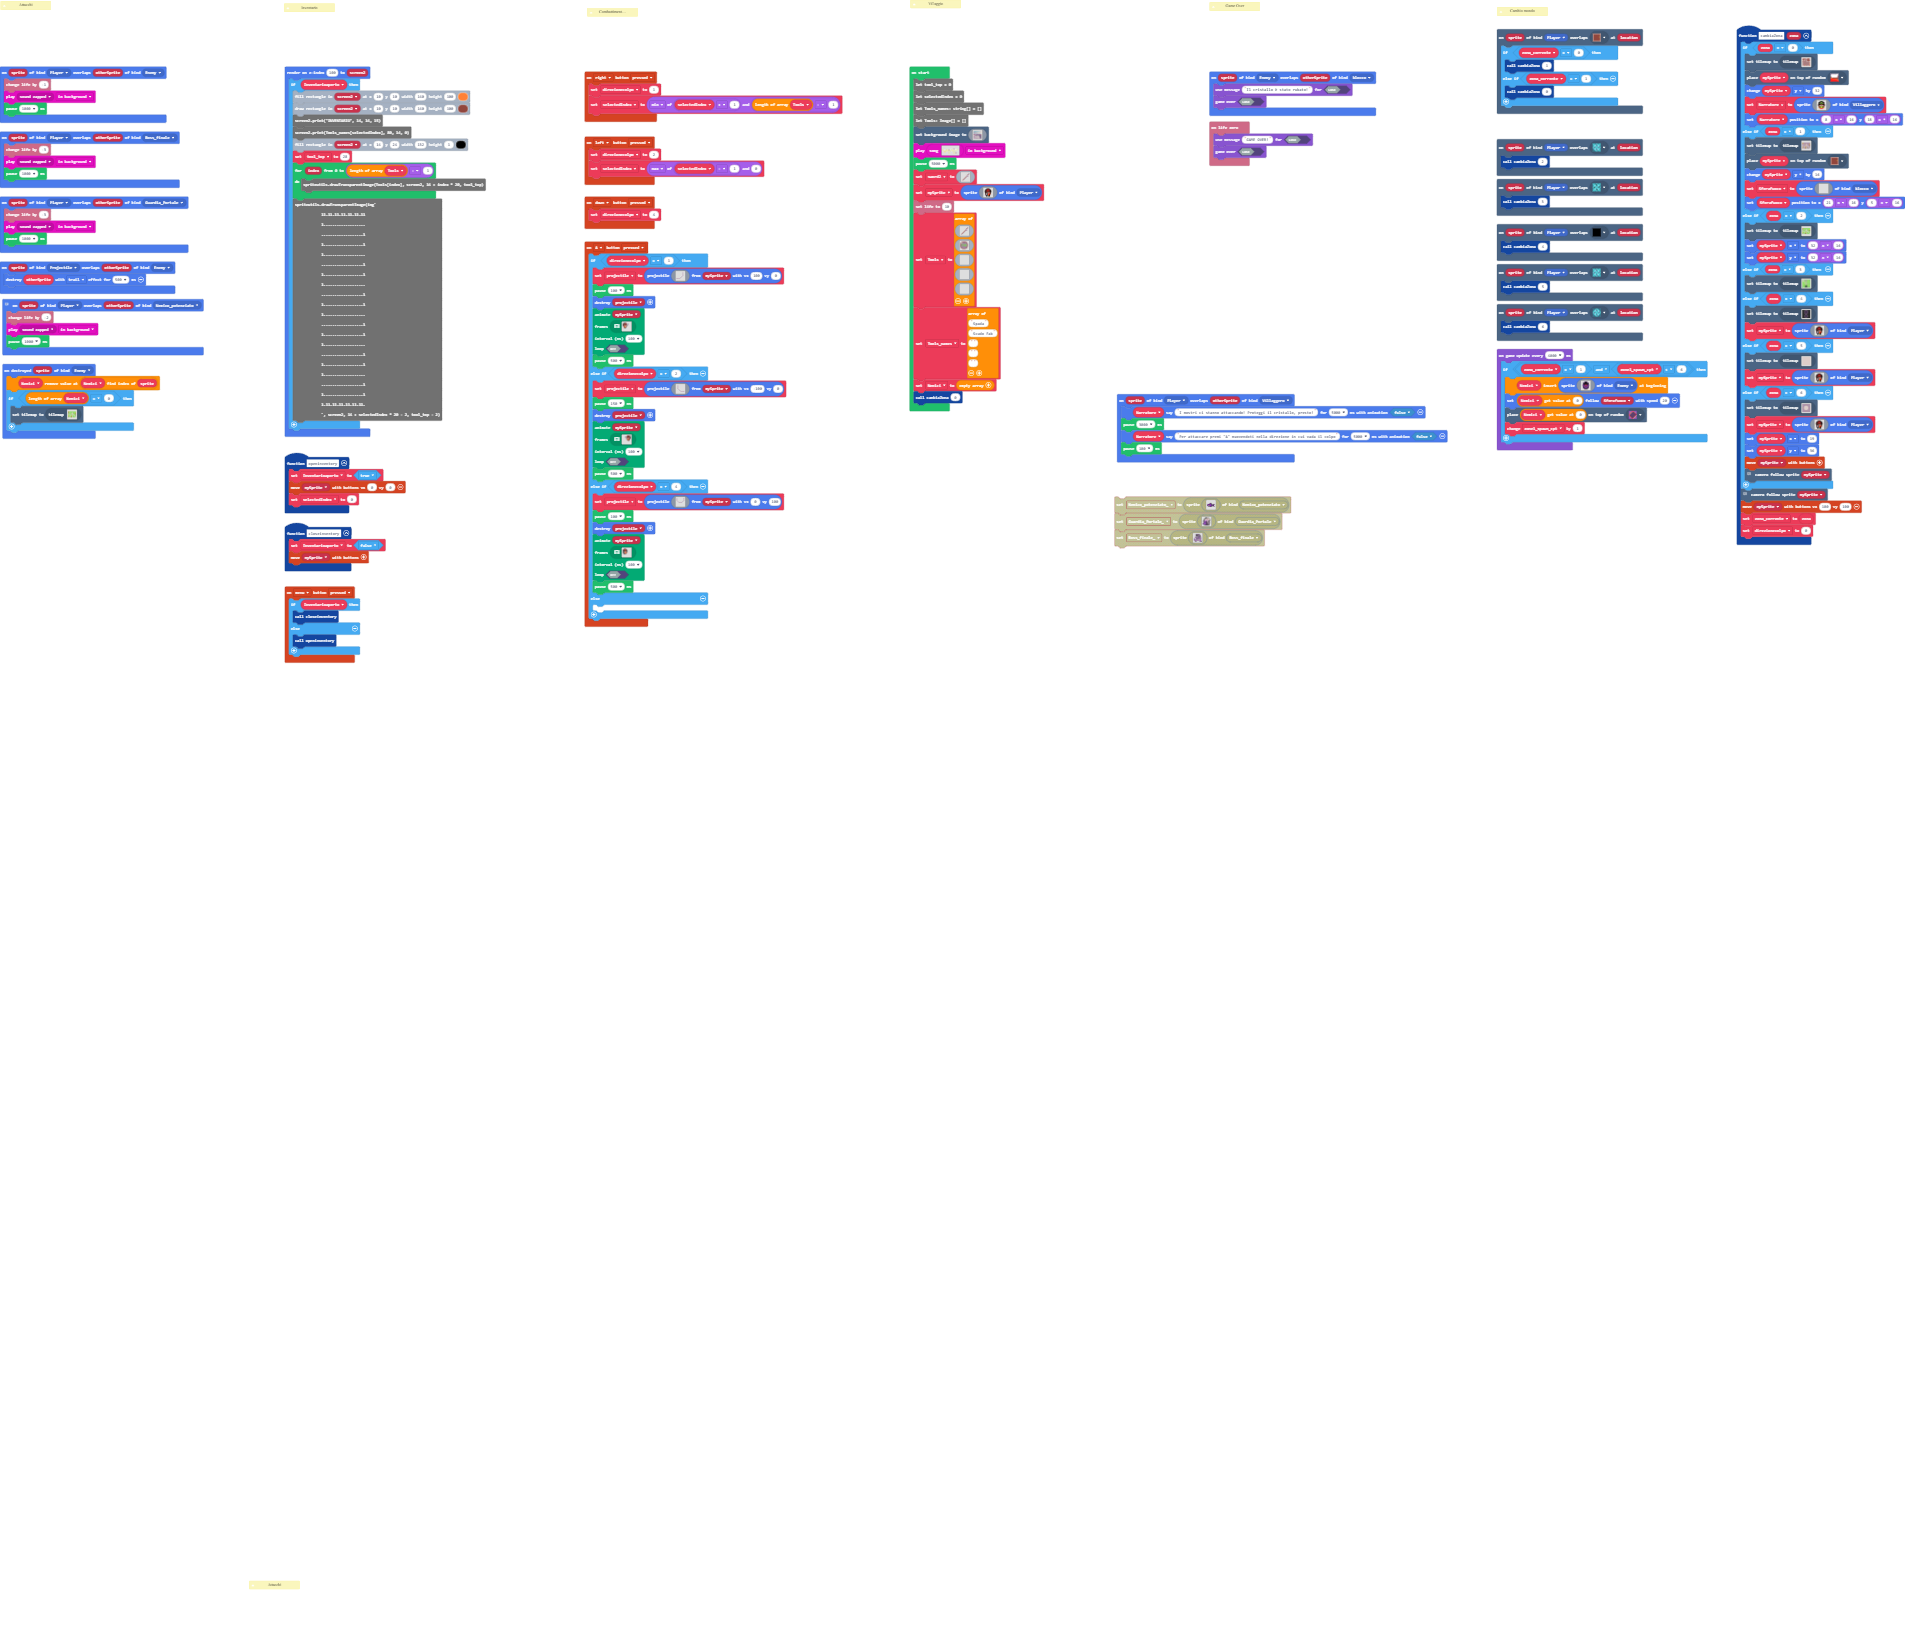
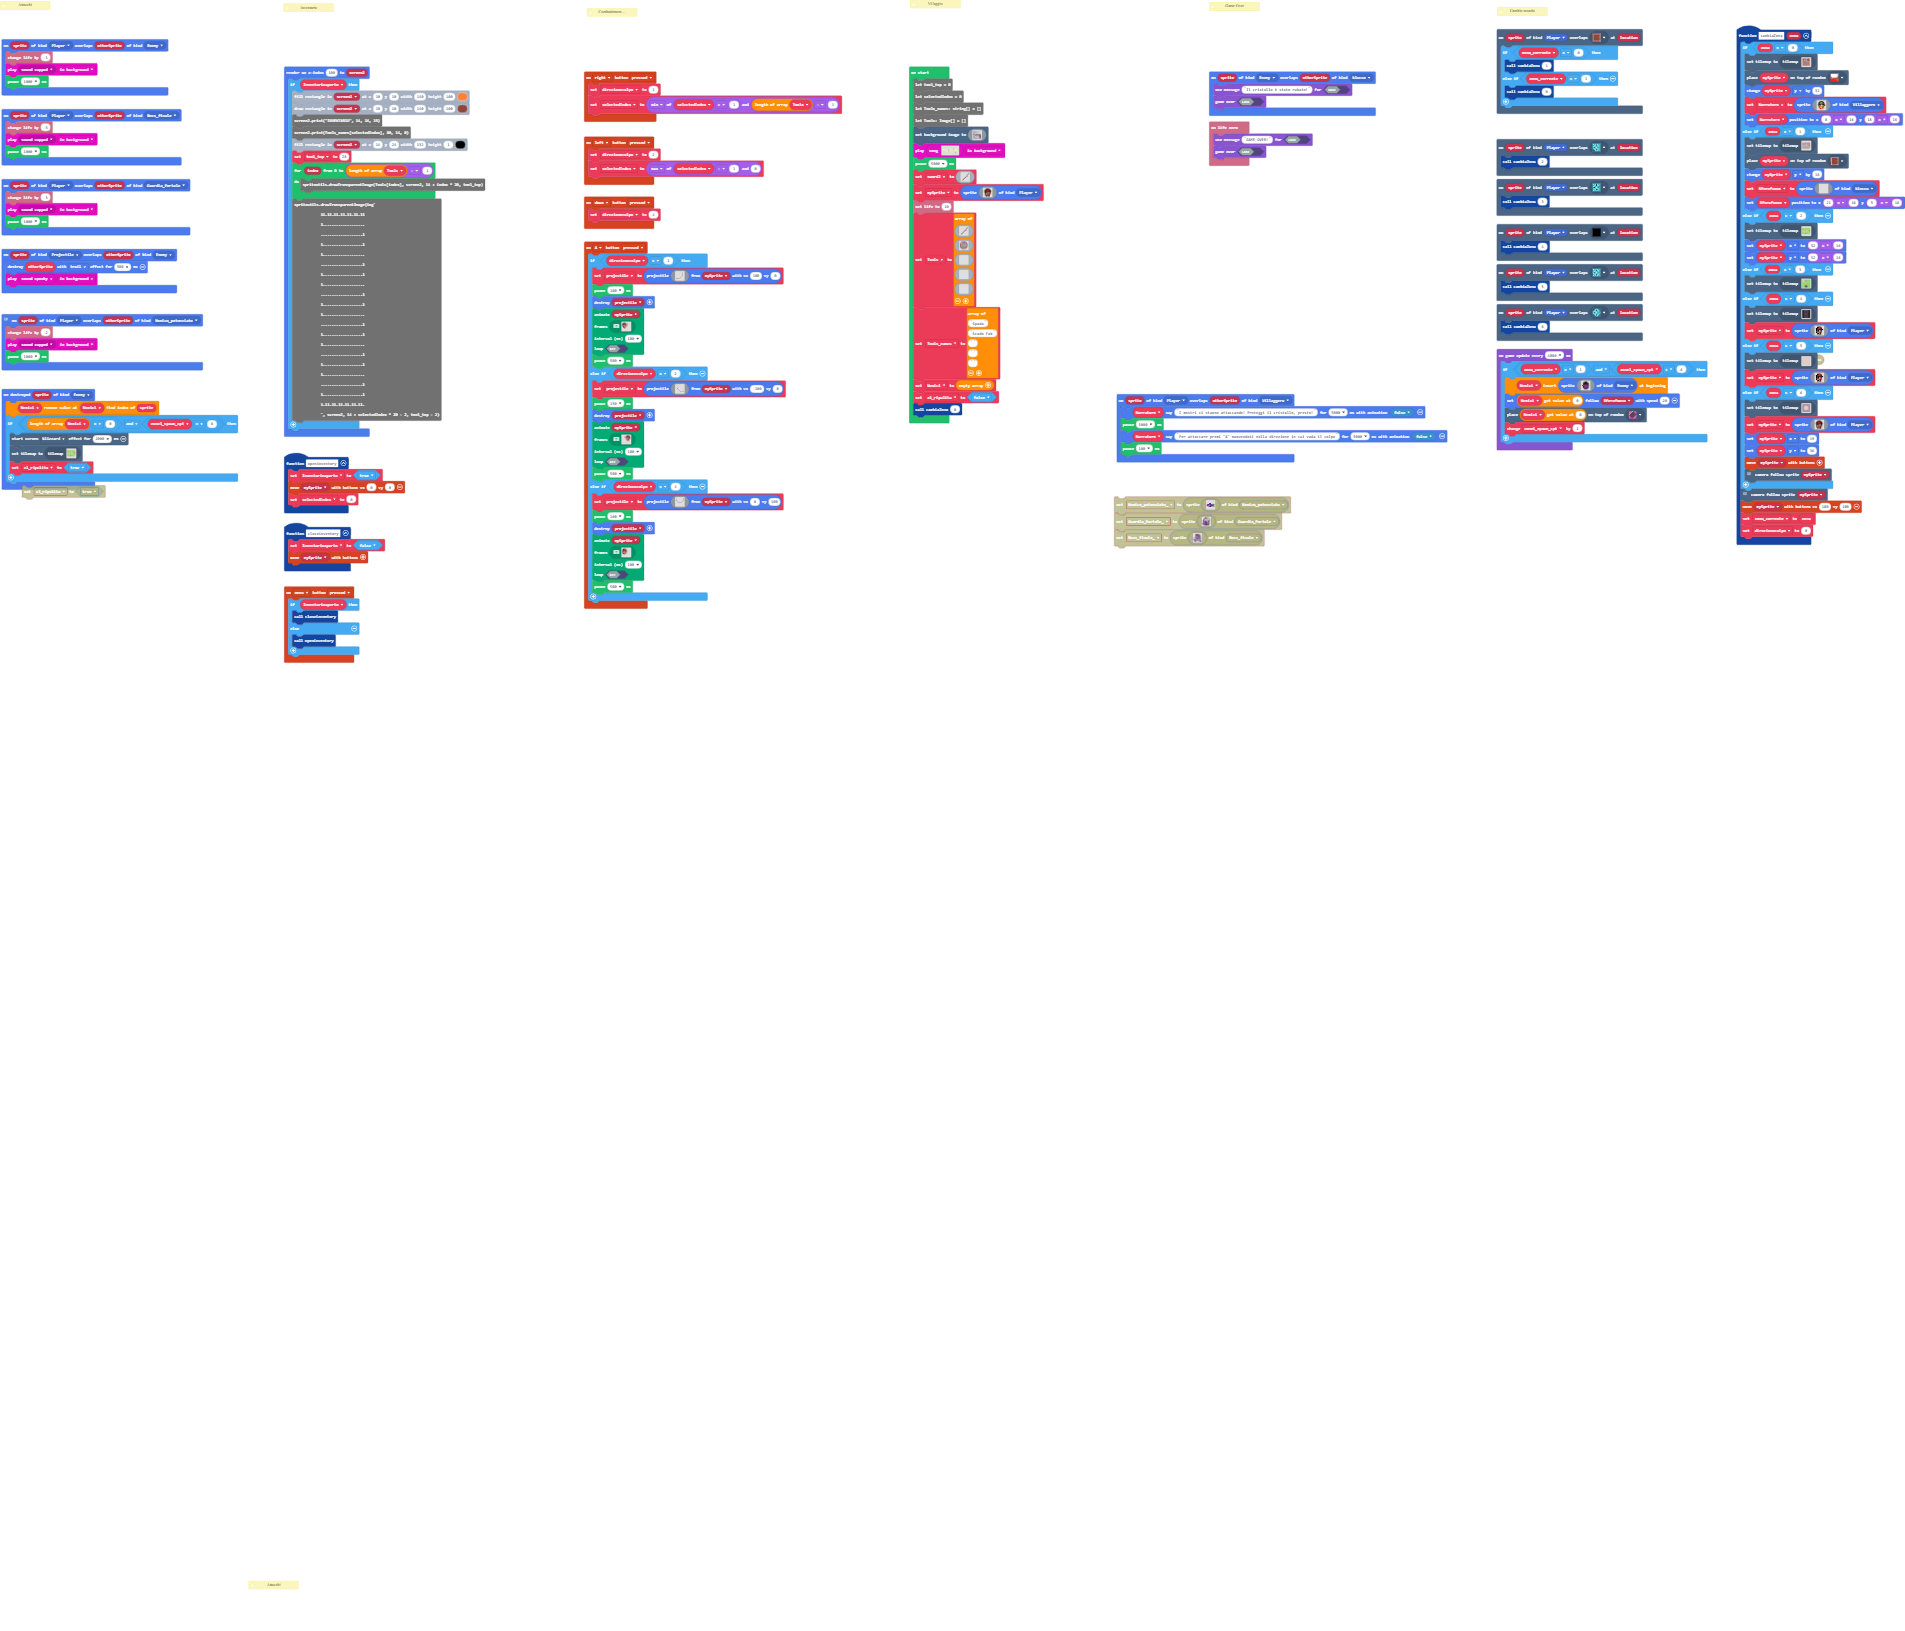
bug

diff --git a/main.ts b/main.ts
@@ -6,9 +6,6 @@ namespace SpriteKind {
     export const Villaggero = SpriteKind.create()
 }
 /**
- * Attacchi
- */
-/**
  * Inventario
  */
 /**
@@ -468,8 +465,6 @@ controller.A.onEvent(ControllerButtonEvent.Pressed, function () {
         false
         )
         pause(500)
-    } else {
-    	
     }
 })
 sprites.onOverlap(SpriteKind.Player, SpriteKind.Villaggero, function (sprite, otherSprite) {
@@ -570,8 +565,10 @@ scene.onOverlapTile(SpriteKind.Player, assets.tile`myTile10`, function (sprite, 
 })
 sprites.onDestroyed(SpriteKind.Enemy, function (sprite) {
     Nemici.removeAt(Nemici.indexOf(sprite))
-    if (Nemici.length == 0) {
+    if (Nemici.length == 0 && zone1_spawn_cpt == 6) {
+        effects.blizzard.startScreenEffect(2000)
         tiles.setCurrentTilemap(tilemap`Villaggio`)
+        z1_ripulita = true
     }
 })
 function cambiaZona (zona: number) {
@@ -668,22 +665,27 @@ function cambiaZona (zona: number) {
 }
 sprites.onOverlap(SpriteKind.Projectile, SpriteKind.Enemy, function (sprite, otherSprite) {
     sprites.destroy(otherSprite, effects.trail, 500)
+    music.play(music.melodyPlayable(music.spooky), music.PlaybackMode.InBackground)
 })
 scene.onOverlapTile(SpriteKind.Player, sprites.dungeon.collectibleInsignia, function (sprite, location) {
     cambiaZona(5)
 })
+/**
+ * Attacchi
+ */
 sprites.onOverlap(SpriteKind.Player, SpriteKind.Enemy, function (sprite, otherSprite) {
     info.changeLifeBy(-1)
     music.play(music.melodyPlayable(music.zapped), music.PlaybackMode.InBackground)
     pause(1000)
 })
-let zone1_spawn_cpt = 0
 let Sferafuoco: Sprite = null
+let zone1_spawn_cpt = 0
 let zona_corrente = 0
 let Inventarioaperto = false
 let Narratore: Sprite = null
 let projectile: Sprite = null
 let direzionecolpo = 0
+let z1_ripulita = false
 let Nemici: Sprite[] = []
 let mySprite: Sprite = null
 let tool_top = 0
@@ -1000,6 +1002,7 @@ Tools_names = [
 ""
 ]
 Nemici = []
+z1_ripulita = false
 cambiaZona(0)
 game.onUpdateInterval(4000, function () {
     if (zona_corrente == 1 && zone1_spawn_cpt < 6) {
